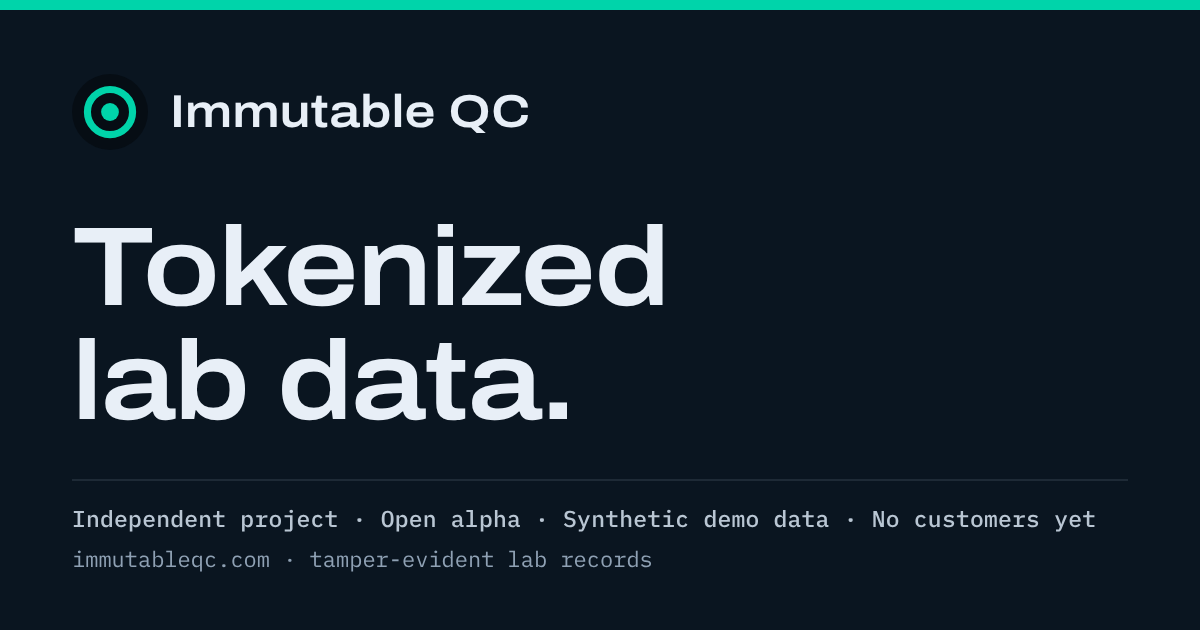
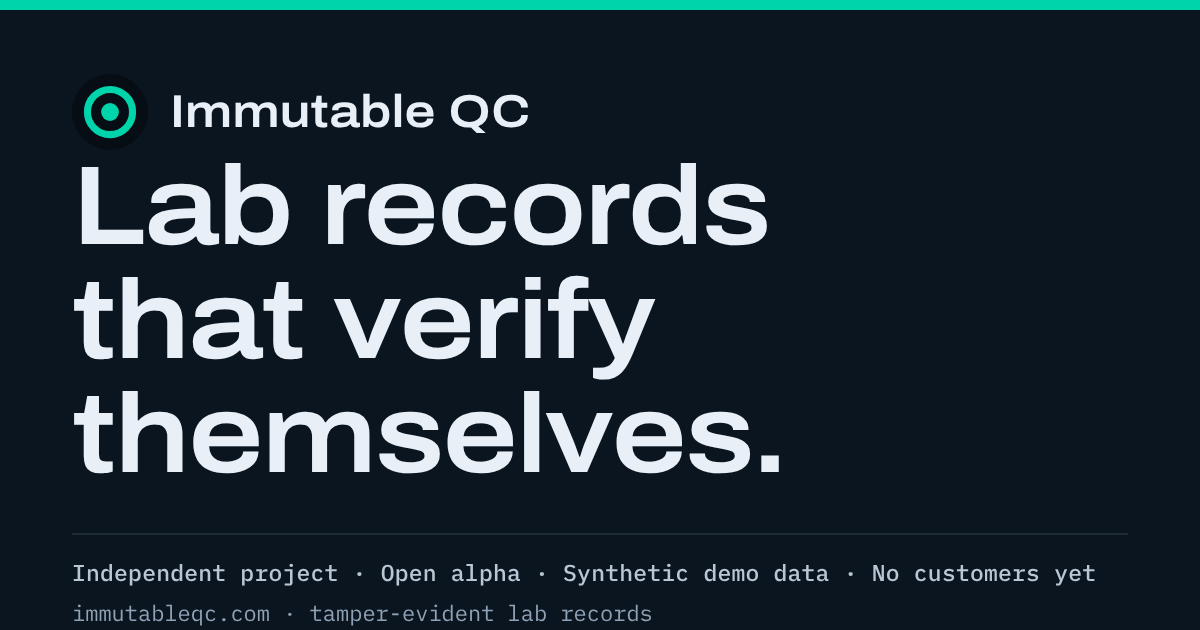
Replace the docs headline "Tokenized lab data." with "Lab records that verify themselves."
Claude-Session: https://claude.ai/code/session_01AMKTEb5pCCcVXZz2TooRAp

diff --git a/overview.html b/overview.html
@@ -62,7 +62,7 @@
 
 <div class="hero">
 <div class="hero-text">
-<h1>Tokenized lab data.</h1>
+<h1>Lab records that verify themselves.</h1>
 <section class="sec" aria-labelledby="s1-h">
 <h2 id="s1-h"><span class="no">1</span>Scope</h2>
 <div class="body">
